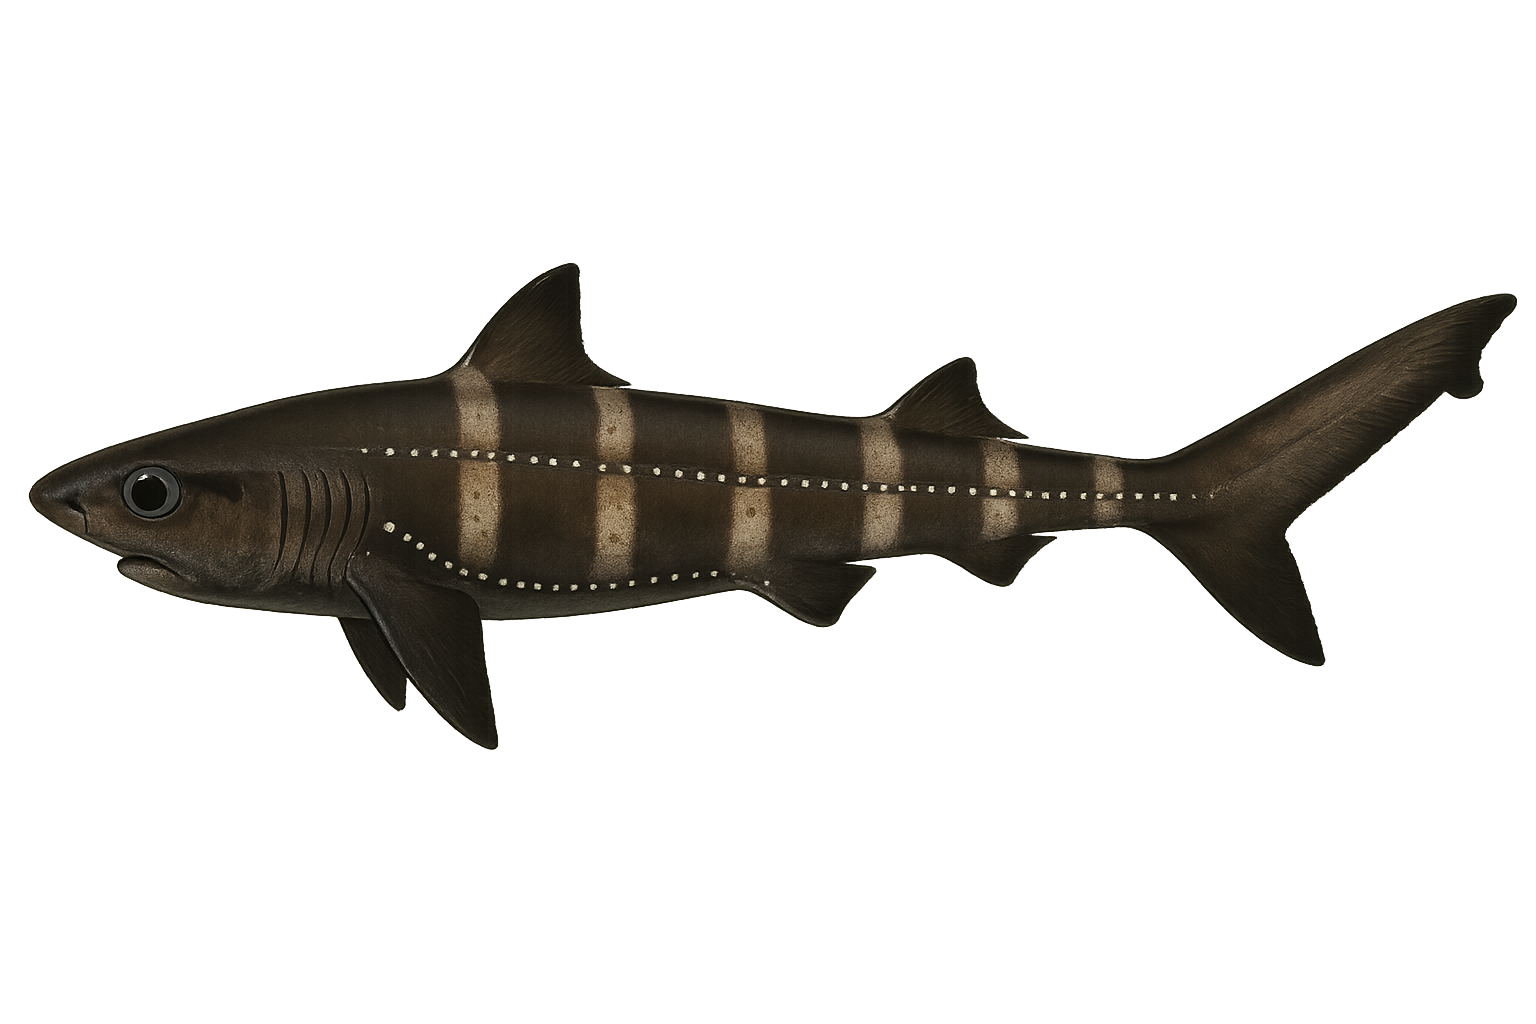
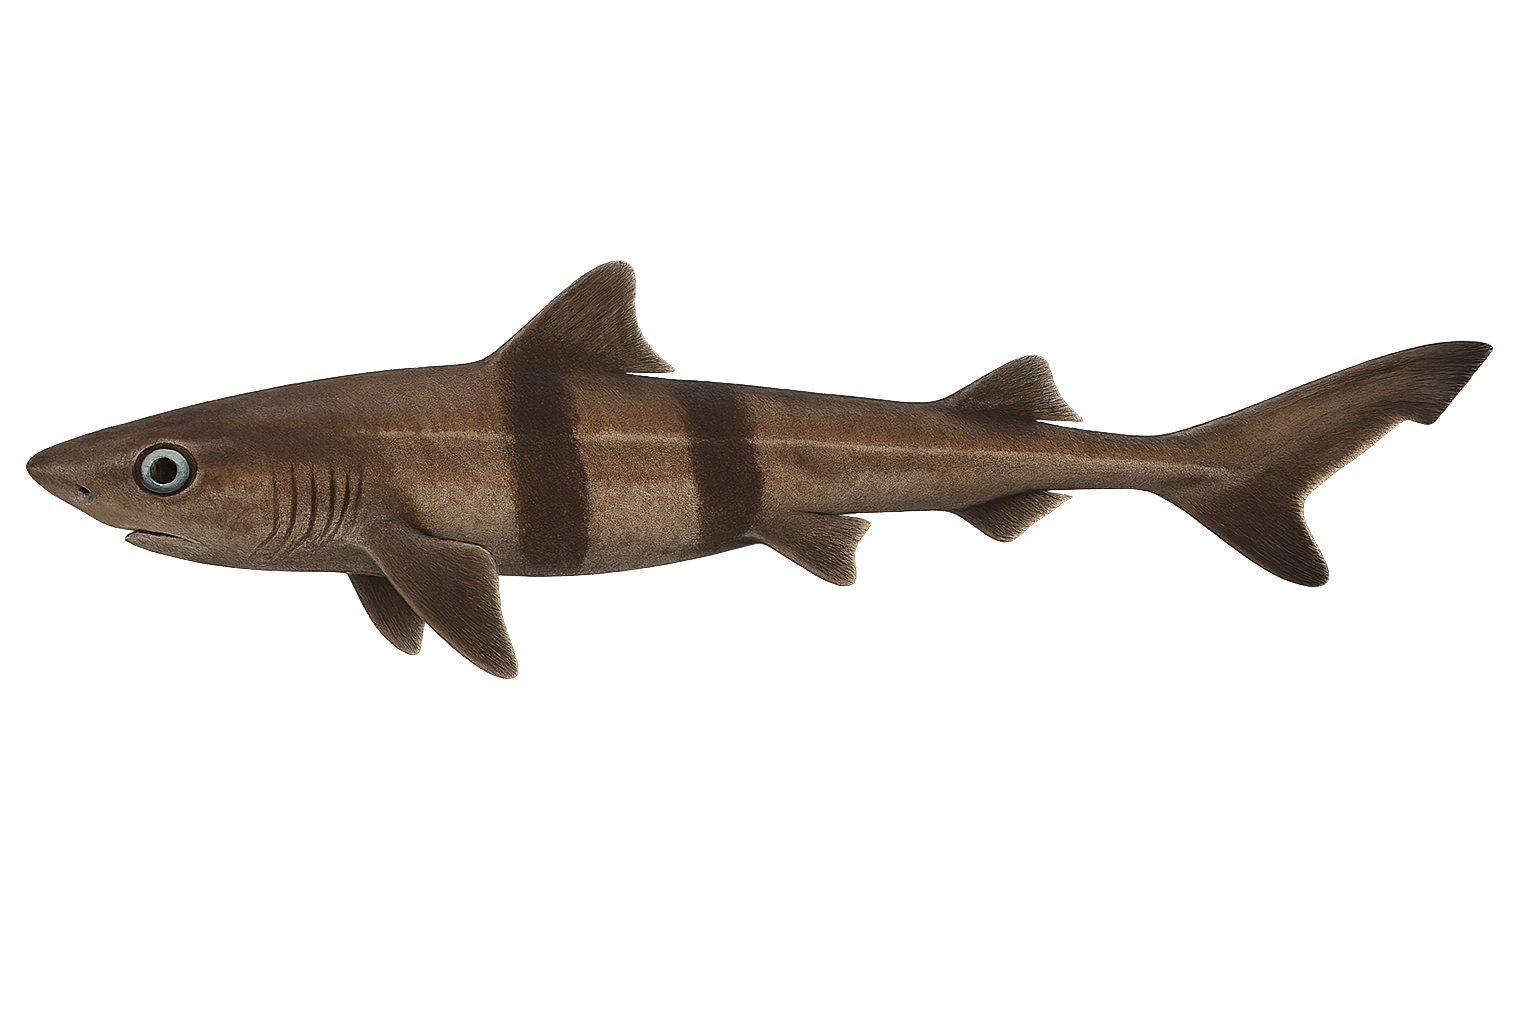
feat: More sharks

Changed region(s): [[0.0, 0.25, 1.0, 0.75]]

diff --git a/src/data/species/sharks/squaliformes/etmopteridae/etmopterus-unicolor.js b/src/data/species/sharks/squaliformes/etmopteridae/etmopterus-unicolor.js
@@ -1,9 +1,12 @@
 import { ANAL_FIN, BIOLUMINESCENT, CONSERVATION_STATUS, REPRODUCTIVE_STRATEGY } from "../../../../../constants/enums";
+import etmopterusUnicolorImg from "./../../../../../images/sharks/squaliformes/etmopteridae/etmopterus-unicolor.png";
 
 export const etmopterusUnicolor = {
     commonName: "Brown Lanternshark",
     alternativeNames: ["Bristled Lanternshark"],
     binomialName: "Etmopterus unicolor",
+
+    imageUrl: etmopterusUnicolorImg,
 
     domain:	"Eukaryota",
     kingdom: "Animalia",

diff --git a/src/data/species/sharks/squaliformes/etmopteridae/etmopterus-spinax.js b/src/data/species/sharks/squaliformes/etmopteridae/etmopterus-spinax.js
@@ -1,9 +1,12 @@
 import { ANAL_FIN, BIOLUMINESCENT, CONSERVATION_STATUS, REPRODUCTIVE_STRATEGY } from "../../../../../constants/enums";
+import etmopterusSpinaxImg from "./../../../../../images/sharks/squaliformes/etmopteridae/etmopterus-spinax.png";
 
 export const etmopterusSpinax = {
     commonName: "Velvet Belly Lanternshark",
     alternativeNames: ["Velvet Belly"],
     binomialName: "Etmopterus spinax",
+
+    imageUrl: etmopterusSpinaxImg,
 
     domain:	"Eukaryota",
     kingdom: "Animalia",

diff --git a/src/data/species/sharks/squaliformes/etmopteridae/etmopterus-schultzi.js b/src/data/species/sharks/squaliformes/etmopteridae/etmopterus-schultzi.js
@@ -1,8 +1,11 @@
 import { ANAL_FIN, BIOLUMINESCENT, CONSERVATION_STATUS, REPRODUCTIVE_STRATEGY } from "../../../../../constants/enums";
+import etmopterusSchultziImg from "./../../../../../images/sharks/squaliformes/etmopteridae/etmopterus-schultzi.png";
 
 export const etmopterusSchultzi = {
     commonName: "Fringefin Lanternshark",
     binomialName: "Etmopterus schultzi",
+
+    imageUrl: etmopterusSchultziImg,
 
     domain:	"Eukaryota",
     kingdom: "Animalia",

diff --git a/src/data/species/sharks/squaliformes/etmopteridae/etmopterus-bigelowi.js b/src/data/species/sharks/squaliformes/etmopteridae/etmopterus-bigelowi.js
@@ -1,8 +1,11 @@
 import { ANAL_FIN, BIOLUMINESCENT, CONSERVATION_STATUS, REPRODUCTIVE_STRATEGY } from "../../../../../constants/enums";
+import etmopterusBigelowiImg from "./../../../../../images/sharks/squaliformes/etmopteridae/etmopterus-bigelowi.png";
 
 export const etmopterusBigelowi = {
     commonName: "Blurred Lanternshark",
     binomialName: "Etmopterus bigelowi",
+
+    imageUrl: etmopterusBigelowiImg,
 
     domain:	"Eukaryota",
     kingdom: "Animalia",

diff --git a/src/data/species/sharks/squaliformes/etmopteridae/etmopterus-princeps.js b/src/data/species/sharks/squaliformes/etmopteridae/etmopterus-princeps.js
@@ -1,8 +1,11 @@
 import { ANAL_FIN, BIOLUMINESCENT, CONSERVATION_STATUS, REPRODUCTIVE_STRATEGY } from "../../../../../constants/enums";
+import etmopterusPrincepsImg from "./../../../../../images/sharks/squaliformes/etmopteridae/etmopterus-princeps.png";
 
 export const etmopterusPrinceps = {
     commonName: "Great Lanternshark",
     binomialName: "Etmopterus princeps",
+
+    imageUrl: etmopterusPrincepsImg,
 
     domain:	"Eukaryota",
     kingdom: "Animalia",
